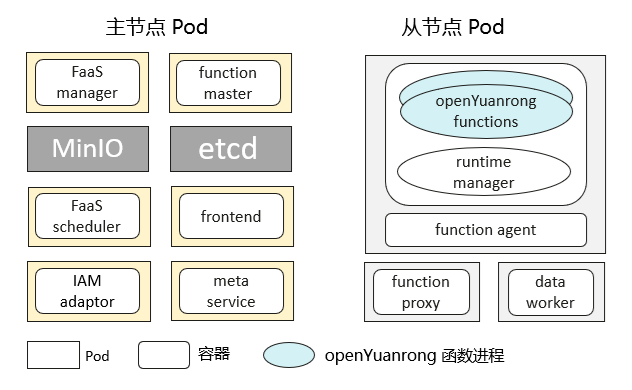
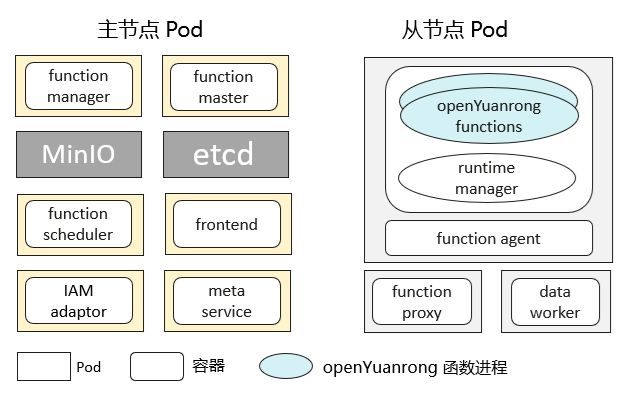
chore: 补充K8s部署时openYuanrong日志介绍

Changed region(s): [[0.0, 0.0308, 0.8156, 0.9846], [0.5739, 0.1231, 0.9666, 0.8615], [0.6343, 0.0308, 0.8156, 0.0923]]

diff --git a/docs/observability/logs.md b/docs/observability/logs.md
@@ -44,9 +44,137 @@
 组件日志在 log 目录下：
 
 - function master 组件：包含 `{node_id}-function_master.log` 和 `{node_id}-function_master_std.log` 文件，仅在主节点存在。
+- function scheduler 组件：包含 `{node_id}-scheduler_libruntime.log`、`faasscheduler.so-run.{timestamp}.log` 和 `{node_id}-scheduler_std.log` 文件，仅在主节点存在。
+- frontend 组件：包含 `{node_id}-faas_frontend_libruntime.log`、`faasfrontend.so-run.{timestamp}.log` 和 `{node_id}-faas_frontend_std.log` 文件，仅在主节点存在。
+- meta service 组件：包含 `meta-service-run.{timestamp}.log` 和 `{node_id}-metaservice_std.log` 文件，仅在主节点存在。
 - dashboard 组件：包含 `dashboard-run.{timestamp}.log` 和 `{node_id}-dashboard_std.log` 文件，仅在主节点存在。
 - function proxy 组件：包含 `{node_id}-function_proxy.log` 和 `{node_id}-function_proxy_std.log` 文件。
 - function agent 与 runtime manager 组件：默认共进程部署，包含 `{node_id}-function_agent.log` 文件。
 - data worker 组件：`worker.{INFO|WARNING}.log` 和 `ds_worker_std.log` 文件主从节点都包含。`ds_master_std.log` 和 `master/worker.{INFO|WARNING}.log` 文件仅在主节点存在。
 - collector 组件：包含 `{node_id}-collector_std.log` 文件。
 - etcd 组件：包含 `etcd-run.log` 文件，仅在主节点存在。
+
+## K8s 部署环境上的日志
+
+openYuanrong 组件及函数日志默认挂载到宿主机，其中[函数系统](glossary-functionsystem)挂载路径为 `/var/paas/sys/log/cff/default`，[数据系统](glossary-datasystem)挂载路径为 `/home/sn/datasystem/logs`。
+
+函数系统日志：
+
+```bash
+/var/paas/sys/log/cff/default
+├── componentlogs
+├── processrouters
+│   └── stdlogs
+└── servicelogs
+```
+
+数据系统日志：
+
+```bash
+/home/sn/datasystem
+└── logs
+```
+
+### 挂载的函数日志
+
+函数日志默认路径为 `/var/paas/sys/log/cff/default/processrouters/stdlogs`。函数标准输出生成在资源池 Pod 名称对应目录下的 `function-agent-{pools_id}-xxx/{node_id}-user-func_std.log` 文件中。相同 Pod 中运行的函数，日志合并为一个文件。
+
+函数进程中也包含了部分平台逻辑比如加载代码，输出的日志默认路径为 `/var/paas/sys/log/cff/default/servicelogs`。在相同资源池 Pod 名称目录下，每次函数运行分别生成名为 `job-{job_id}-runtime-{runtime_id}.log` 和 `runtime-{runtime_id}.log` 的文件。在函数实例未正常拉起时，可查看该日志定位是否存在函数包路径等配置错误问题。
+
+### 挂载的组件日志
+
+- function scheduler 组件：包括 `componentlogs` 及 `servicelogs` 下 Pod 名称为 `function-agent-xxx-faasscheduler-xxx` 子目录中的文件。
+- function manager 组件：包括 `componentlogs` 及 `servicelogs` 下 Pod 名称为 `function-agent-xxx-faasmanager-xxx` 子目录中的文件。
+- frontend 组件：包括 `componentlogs` 及 `servicelogs` 下 Pod 名称为 `function-agent-xxx-faasfrontend-xxx` 子目录中的文件。
+- function master 组件：包含 `componentlogs` 下 Pod 名称为 `function-master-xxx` 子目录中的文件。
+- meta service 组件：包含 `componentlogs` 下 Pod 名称为 `meta-service-xxx` 子目录中的文件。
+- IAM adaptor 组件：包含 `componentlogs` 下 Pod 名称为 `iam-adaptor-xxx` 子目录中的文件。
+- function proxy 组件：包含 `componentlogs` 下 Pod 名称为 `function-proxy-xxx` 子目录中的文件。
+- function agent 与 runtime manager 组件：共 Pod 部署。在 `componentlogs` 下的每个资源池 Pod 名称对应子目录 `function-agent-{pools_id}-xxx` 中，包含 `{node_id}-function_agent.log` 和 `{node_id}-runtime_manager.log` 两个文件。
+- data worker 组件：数据系统组件，包含默认路径 `/home/sn/datasystem/logs` 下 `worker` 子目录中的文件。
+
+## 转发无状态和有状态函数的标准输出到 Driver 端
+
+openYuanrong 支持本地程序直接调用无状态和有状态函数时，流式输出函数的 stdout 和 stderr 日志到终端。要开启此功能，可[参考示例](deploy-processes-config-log-to-driver)在部署时设置以下参数：
+
+- `enable_dashboard`：主节点需要开启此选项。
+- `enable_collector`：所有节点均需要开启此选项。
+- `enable_separated_redirect_runtime_std`：所有节点均需要开启此选项。
+
+同时，在程序初始化 openYuanrong 时开启 `log_to_driver` 配置，相关 API 及参考示例的效果如下。
+
+- [Python API 开启日志去重](yr.Config.dedup_logs)
+- [Python API 开启日志转发](yr.Config.log_to_driver)
+
+```python
+# demo.py
+import yr
+yr.init(yr.Config(log_to_driver=True))
+
[email redacted]
+class A:
+    def __init__(self, p):
+        self.p = p
+
+    def add(self):
+        print(f'this is inside the actor')
+        self.p += 1
+        return self.p
+
+insts = [A.invoke(i) for i in range(10)]
+print(yr.get([i.add.invoke() for i in insts]))
+yr.finalize()
+```
+
+执行 `python demo.py` 运行示例，可以看到有状态函数中的标准输出日志会在当前窗口输出，且重复日志不会反复打印，只显示重复的日志条数：
+
+```bash
+(runtime-b6110000-0000-4000-b681-68ec2a2afb86-000000008290) this is inside the actor
+[1, 2, 3, 4, 5, 6, 7, 8, 9, 10]
+[repeated 9x across cluster] (runtime-bf110000-0000-4000-b36a-375ad5034385-00446c2a2d82) this is inside the actor
+```
+
+:::{note}
+
+当前仅支持主机部署且本地程序使用 Python 开发的场景。
+
+:::
+
+## 使用 openYuanrong 的日志记录器
+
+函数服务支持使用 openYuanrong 的日志记录器，您可以通过函数的上下文方法 `context.getLogger()` 打印日志，将获得和 openYuanrong 组件日志一样的输出格式，以 Java 函数服务为例，代码及日志输出如下。
+
+```java
+package com.yuanrong.demo;
+
+import com.services.runtime.Context;
+import com.services.runtime.RuntimeLogger;
+import com.google.gson.JsonObject;
+
+public class Demo {
+    // 函数执行入口，每次请求都会执行，其中intput参数及函数返回类型可自定义
+    public String handler(JsonObject event, Context context) {
+        RuntimeLogger log = context.getLogger();
+        log.info("received request,event content:" + event);
+
+        return event.toString();
+    }
+
+    // 函数初始化入口，函数实例启动时执行一次
+    public void initializer(Context context) {
+        RuntimeLogger log = context.getLogger();
+        log.info("function instance initialization completed");
+    }
+}
+```
+
+假如请求 body 设置为 {"name":"yuanrong"}，主机部署时在默认日志文件 `/tmp/yr_sessions/latest/log/runtime-{runtime_id}/user-log.log` 中可见如下日志内容。
+
+```bash
+[16:41:35:820] | [INFO] | com.services.logger.UserFunctionLogger.info(UserFunctionLogger.java:68) | Thread-1 | userLog | function instance initialization completed
+[16:41:35:820] | [INFO] | com.yuanrong.executor.FaaSHandler.faasInitHandler(FaaSHandler.java:288) | Thread-1 | userLog | faas init handler complete.
+[16:41:35:827] | [INFO] | com.yuanrong.executor.FaaSHandler.execute(FaaSHandler.java:174) | Thread-2 | userLog | executing udf methods, current type: InvokeFunctionStateless
+[16:41:35:828] | [INFO] | com.yuanrong.executor.FaaSHandler.faasCallHandler(FaaSHandler.java:300) | Thread-2 | userLog | faas call handler called.
+[16:41:35:832] | [INFO] | com.services.logger.UserFunctionLogger.info(UserFunctionLogger.java:68) | Thread-2 | userLog | received request,event content:{"name":"yuanrong"}
+```
+

diff --git a/docs/observability/metrics/export-metrics.md b/docs/observability/metrics/export-metrics.md
@@ -4,7 +4,7 @@
 
 ## 配置指标导出
 
-监控在 openYuanrong 中默认是关闭状态。在 k8s 部署时，开启需要配置参数 `observer.metrics.enable` 为 `true`，并且在 `observer.metrics.metricsConfig` 中设置相应的导出器。在主机上部署时，开启需要在启动参数中增加 `--enable_metrics=true --metrics_config_file={file_name}.json`，配置文件的格式参考[配置示例](metrics-config-example)。
+监控在 openYuanrong 中默认是关闭状态。在 K8s 部署时，开启需要配置参数 `observer.metrics.enable` 为 `true`，并且在 `observer.metrics.metricsConfig` 中设置相应的导出器。在主机上部署时，开启需要在启动参数中增加 `--enable_metrics=true --metrics_config_file={file_name}.json`，配置文件的格式参考[配置示例](metrics-config-example)。
 
 ### 导出模式
 
@@ -17,9 +17,11 @@ openYuanrong 支持立即导出（immediatelyExport）和批量导出（batchExp
 
 - `name`：用户自定义的导出模式名称。
 - `enable`：导出模式是否开启。
-- `exporters`：该导出模式下，使用的导出器，可配置多个。当前支持：fileExporter（文件导出器）、prometheusPushExporter（ prometheus 导出器）。
+- `exporters`：该导出模式下，使用的导出器，可配置多个。
 
 ### 导出器
+
+openYuanrong 支持文件导出器（fileExporter）和 [Prometheus](https://prometheus.io/){target="_blank"} 导出器（prometheusPushExporter）两种。
 
 导出器包含以下配置：
 
@@ -30,7 +32,7 @@ openYuanrong 支持立即导出（immediatelyExport）和批量导出（batchExp
 - `failureDataFileMaxCapacity`：导出失败时，指标存储文件最大容量。当文件大小超过该容量时，文件将被覆盖，默认值为 20MB。
 - `batchSize`：批量导出条数。当存储的指标数超过设置值时，触发导出，默认值为 512 条。仅当导出模式为 `batchExport` 时该配置生效。
 - `batchIntervalSec`：批量导出间隔。每间隔一定时间导出一次指标，默认值为 15 秒。仅当导出模式为 `batchExport` 时该配置生效。
-- `initConfig`: 导出器需要设置的初始化参数，openYuanrong 支持文件导出器（fileExporter）和 prometheus导出器（prometheusPushExporter）两种导出模式。详见以下表格说明。
+- `initConfig`: 导出器需要设置的初始化参数，详见以下表格说明。
   - fileExporter 导出器初始化参数：
 
     | 初始化参数 | 说明 | 约束 |
@@ -53,9 +55,9 @@ openYuanrong 支持立即导出（immediatelyExport）和批量导出（batchExp
 
 ### 配置示例
 
-openYuanrong 支持文件（fileExporter）和 [prometheus](https://prometheus.io/){target="_blank"} （prometheusPushExporter）两种导出器。
+以下是指标配置文件示例。
  
-- 以下是一个文件导出器 `metrics config` 配置示例：
+- 配置立即上报和批量上报两种导出模式，使用文件导出器导出指标。
 
 ```json
 {
@@ -118,9 +120,7 @@ openYuanrong 支持文件（fileExporter）和 [prometheus](https://prometheus.i
 }
 ```
 
-示例中同时使用了立即上报和批量上报两种导出模式。
-
-- 以下是一个 prometheusPush 导出器 `metrics config` 配置示例：
+- 配置批量上导出模式，使用 prometheus 导出器导出指标。
 
 ```json
 {
@@ -153,8 +153,6 @@ openYuanrong 支持文件（fileExporter）和 [prometheus](https://prometheus.i
   ]
 }
 ```
-
-示例中使用了批量上报导出模式。
 
 ## 获取导出的指标数据
 

diff --git a/docs/multi_language_function_programming_interface/api/distributed_programming/zh_cn/Python/yr.Config.dedup_logs.rst b/docs/multi_language_function_programming_interface/api/distributed_programming/zh_cn/Python/yr.Config.dedup_logs.rst
@@ -1,0 +1,10 @@
+.. _dedup_logs_cn:
+
+yr.Config.dedup_logs
+------------------------------------
+
+.. py:attribute:: config.dedup_logs
+   :type: bool
+   :value: True
+
+   默认值为 `True`，将对一个作业中函数进程标准输出的日志去重。第一次出现的日志模式会立即打印，之后相同模式的日志最多缓存 5 秒后批量打印。

diff --git a/docs/multi_language_function_programming_interface/api/distributed_programming/zh_cn/Python/yr.Config.log_to_driver.rst b/docs/multi_language_function_programming_interface/api/distributed_programming/zh_cn/Python/yr.Config.log_to_driver.rst
@@ -1,0 +1,10 @@
+.. _log_to_driver_cn:
+
+yr.Config.log_to_driver
+------------------------------------
+
+.. py:attribute:: config.log_to_driver
+   :type: bool
+   :value: False
+
+   默认值为 ``False``。设置为 ``True`` 时，一个作业中所有函数进程的标准输出日志都将被定位到 Driver 端。

diff --git a/docs/deploy/deploy_on_k8s/index.md b/docs/deploy/deploy_on_k8s/index.md
@@ -22,7 +22,7 @@ openYuanrong 集群由主节点 pod 和从节点 pod 组成。
 
 ### 主节点 pod
 
-主节点 pod 用于管理集群，负责全局函数调度、请求转发等工作。包含的组件有 function master、FaaS manager、FaaS scheduler、frontend、meta service、IAM adaptor 及开源 MinIO、etcd。
+主节点 pod 用于管理集群，负责全局函数调度、请求转发等工作。包含的组件有 function master、function manager、function scheduler、frontend、meta service、IAM adaptor 及开源 MinIO、etcd。
 
 ### 从节点 pod
 
@@ -33,10 +33,10 @@ openYuanrong 集群由主节点 pod 和从节点 pod 组成。
 - **function master**
 
   负责拓扑管理、全局函数调度、函数实例生命周期管理及 function agent 组件的扩缩容。部署形式为 [Deployment](https://kubernetes.io/zh-cn/docs/concepts/workloads/controllers/deployment/){target="_blank"}，一主多备。
-- **FaaS manager**
+- **function manager**
 
   负责租约申请与回收，清理过期连接信息。它是一个 openYuanrong 系统函数。
-- **FaaS scheduler**
+- **function scheduler**
 
   负责函数服务的调度。它是一个 openYuanrong 系统函数。
 - **frontend**

diff --git a/docs/multi_language_function_programming_interface/api/distributed_programming/zh_cn/Python/yr.Config.rst b/docs/multi_language_function_programming_interface/api/distributed_programming/zh_cn/Python/yr.Config.rst
@@ -89,6 +89,10 @@ yr.Config
          - 用于为运行时设置自定义环境变量。
        * - :ref:`master_addr_list <master_addr_list>`
          - 函数主节点地址列表。
+       * - :ref:`dedup_logs <dedup_logs_cn>`
+         - 对作业中的函数进程标准输出日志去重。
+       * - :ref:`log_to_driver <_log_to_driver_cn>`
+         - 配置作业中的函数进程标准输出到 Driver 端。
 
     **方法**：
 
@@ -141,4 +145,6 @@ yr.Config
     yr.Config.load_paths
     yr.Config.custom_envs
     yr.Config.master_addr_list
+    yr.Config.dedup_logs
+    yr.Config.log_to_driver
     yr.Config.__init__

diff --git a/docs/deploy/deploy_processes/production/deploy.md b/docs/deploy/deploy_processes/production/deploy.md
@@ -123,6 +123,8 @@ Cluster master info:
 yr start --enable_collector=true --enable_separated_redirect_runtime_std=true --master_info "local_ip:x.x.x.x,master_ip:x.x.x.x,etcd_ip:x.x.x.x,etcd_port:32379,global_scheduler_port:22770,ds_master_port:12123,etcd_peer_port:32380,bus-proxy:22772,bus:22773,ds-worker:31501,dashbaord_port:9080,"
 ```
 
+(deploy-processes-config-log-to-driver)=
+
 ### 配置函数日志在 Driver 端输出
 
 配置函数日志在 Driver 端输出后，本地程序直接调用无状态或有状态函数时，将流式输出函数的 stdout 和 stderr 日志到终端。